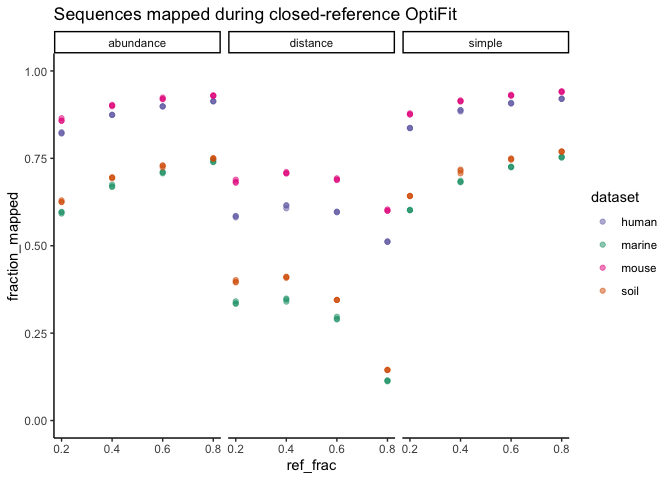
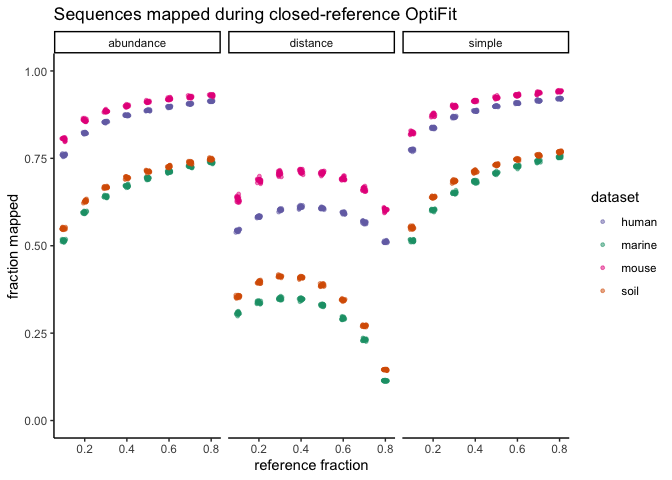
Use boxplot & jitter geoms

diff --git a/exploratory/2020/sub3_fit_subsets.md b/exploratory/2020/sub3_fit_subsets.md
@@ -27,36 +27,63 @@ sensspec_fit <-
 
 ``` r
 sensspec_fit %>%
-  group_by(dataset, method) %>%
-  ggplot(aes(x = ref_frac, y = mcc, color = dataset)) +
-  geom_point(alpha = 0.5) +
+  filter(method == 'open') %>% 
+  group_by(dataset, ref_weight) %>%
+  ggplot(aes(x = as.factor(ref_frac), y = mcc, color = dataset)) +
+  geom_boxplot() +
   scale_color_manual(values = dataset_colors) +
   ylim(0.5, 1) +
-  facet_grid(method ~ ref_weight)
+  facet_grid(dataset ~ ref_weight) +
+  labs(title='Open-reference OptiFit Performance',
+       x='reference fraction')
 ```
 
-![](figures/fit_ref_frac-1.png)<!-- -->
+![](figures/fit_ref_frac_open-1.png)<!-- -->
+
+``` r
+sensspec_fit %>%
+  filter(method == 'closed') %>% 
+  group_by(dataset, ref_weight) %>%
+  ggplot(aes(x = as.factor(ref_frac), y = mcc, color = dataset)) +
+  geom_boxplot() +
+  scale_color_manual(values = dataset_colors) +
+  ylim(0.5, 1) +
+  facet_grid(dataset ~ ref_weight) +
+  labs(title='Closed-reference OptiFit Performance',
+       x='reference fraction')
+```
+
+![](figures/fit_ref_frac_closed-1.png)<!-- -->
 
 sample fraction = 0.2
 
 ## Runtime
 
 ``` r
-benchmarks_fit <-
-  read_tsv(here('subworkflows/2_fit_reference_db/results/benchmarks.tsv'))
-# TODO: show number of unique seqs, use as x axis?
-benchmarks_fit %>% 
-    group_by(dataset, method) %>%
-    ggplot(aes(x = method, y = s, color = dataset)) +
-    geom_boxplot() +
-    scale_color_manual(values = dataset_colors) +
-    #facet_wrap("ref_weight") +
-    ylim(0,2100) +
-    labs(y = 'seconds') +
-    theme(axis.title.x = element_blank())
+runtime <- full_join(
+  read_tsv(here('subworkflows/3_fit_sample_subset/results/benchmarks.tsv')),
+  read_tsv(here('subworkflows/3_fit_sample_subset/results/input_sizes.tsv'))
+  )
+runtime %>% ggplot(aes(x=num_ref_seqs, y=s, color=dataset)) +
+  geom_point(alpha = 0.5) +
+  scale_color_manual(values = dataset_colors) +
+  labs(title = 'Runtime over reference size',
+       x = '# sequences in reference',
+       y = 'seconds')
 ```
 
-![](figures/unnamed-chunk-2-1.png)<!-- -->
+![](figures/runtime_ref_size-1.png)<!-- -->
+
+``` r
+runtime %>% ggplot(aes(x=num_sample_seqs, y=s, color=dataset)) +
+  geom_point(alpha = 0.5) +
+  scale_color_manual(values = dataset_colors) +
+  labs(title = 'Runtime over sample size',
+       x = '# sequences in sample',
+       y = 'seconds')
+```
+
+![](figures/runtime_sample_size-1.png)<!-- -->
 
 ## Fraction of sequences that map to the reference
 
@@ -65,11 +92,13 @@ fractions <- read_tsv(here('subworkflows/3_fit_sample_subset/results/fraction_re
 fractions %>% 
   group_by(dataset, ref_weight, ref_frac) %>% 
   ggplot(aes(x=ref_frac, y=fraction_mapped, color=dataset)) +
-  geom_point(alpha = 0.5) +
+  geom_jitter(alpha = 0.5, width = 0.01, size=1) +
   scale_color_manual(values = dataset_colors) +
   facet_wrap("ref_weight") +
   ylim(0, 1) +
-  labs(title="Sequences mapped during closed-reference OptiFit")
+  labs(title="Sequences mapped during closed-reference OptiFit",
+       x='reference fraction',
+       y='fraction mapped')
 ```
 
 ![](figures/fraction_reads_mapped-1.png)<!-- -->
